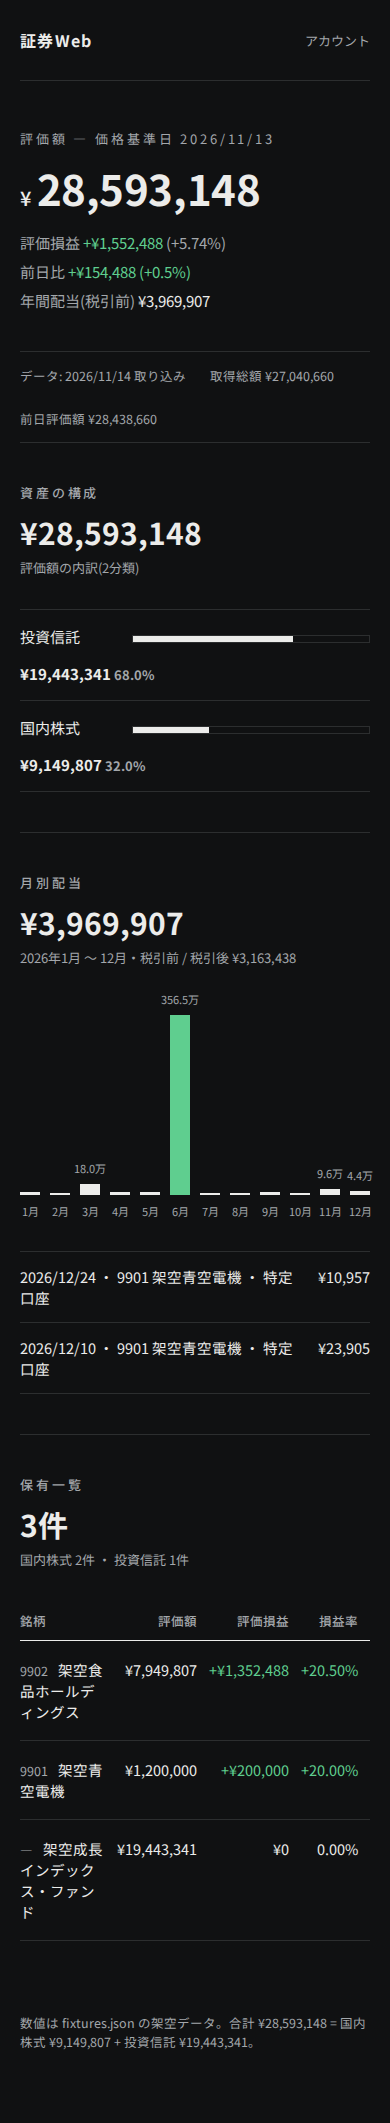
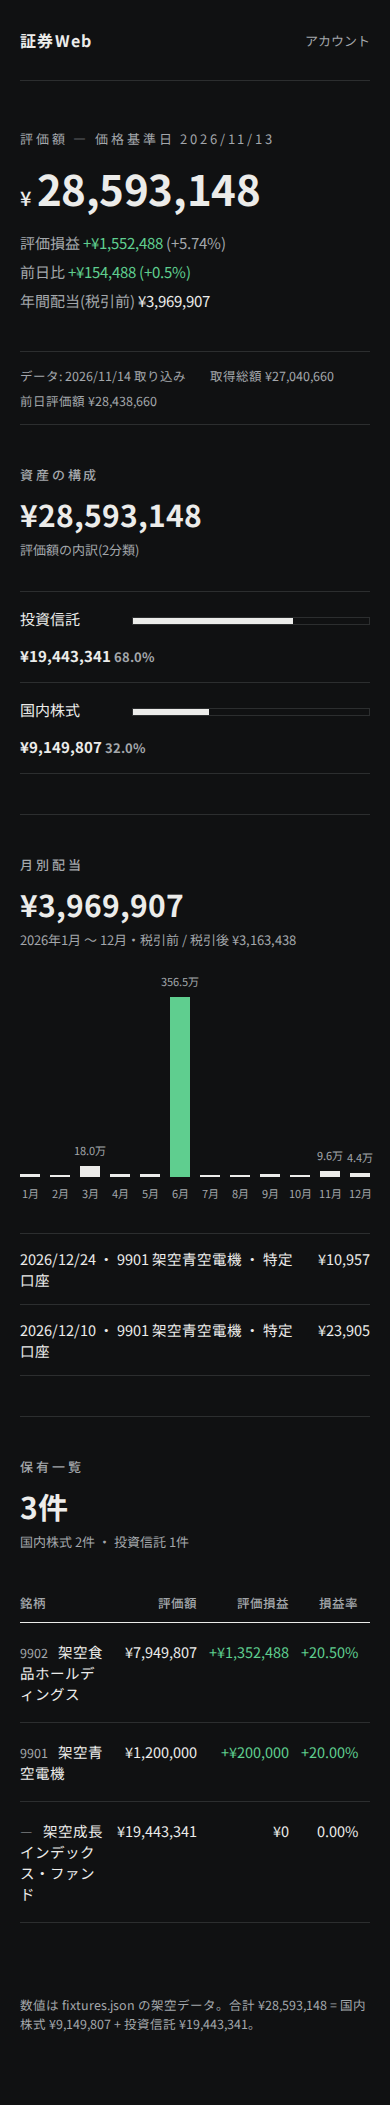
design: スマホ集計帯の改行崩れ修正と比較3点の追記
Refs #1890

diff --git a/docs/design/work/phase8-visual/idea2-finance.html b/docs/design/work/phase8-visual/idea2-finance.html
@@ -1,4 +1,8 @@
 <!doctype html>
+<!-- 現行ホーム(before/current-home-*.png)からの変更3点:
+  1. 紺の帯は残し、金額を右そろえの表にして内訳列で検算できる形にした
+  2. 配当は12か月バー+主要月だけの表に集約し、予想・達成率をなくした
+  3. 保有一覧に合計行を付け、口座別バーは削った -->
 <html lang="ja" data-theme="light">
 <head>
 <meta charset="utf-8">
@@ -53,6 +57,7 @@ th{font-size:12px; font-weight:500; color:var(--muted); text-align:left; padding
 td{padding:8px; border-bottom:1px solid var(--grid); vertical-align:top}
 tr:last-child td{border-bottom:none}
 .num{text-align:right; white-space:nowrap}
+.code{color:var(--muted); font-size:12px; margin-right:6px}
 td.num, td .n{font-weight:500}
 .sub{color:var(--muted); font-size:12px}
 .cols{display:grid; grid-template-columns:7fr 5fr; gap:20px}
@@ -75,6 +80,16 @@ td.num, td .n{font-weight:500}
   table{font-size:12.5px}
   th{white-space:nowrap}
   th, td{padding:7px 4px}
+  /* 保有一覧は縦積み(金額1行を保つ) */
+  table.holdings thead{display:none}
+  table.holdings, table.holdings tbody, table.holdings tr, table.holdings td{display:block}
+  table.holdings tr{border-bottom:1px solid var(--line); padding:8px 0}
+  table.holdings td{border:none; padding:3px 0; display:flex; justify-content:space-between; align-items:baseline; gap:12px}
+  table.holdings td::before{content:attr(data-th); color:var(--muted); font-size:12px; flex:none}
+  table.holdings td[data-th=""]::before{content:none}
+  table.holdings td:empty{display:none}
+  .band .v{white-space:nowrap; font-size:clamp(20px,5.6vw,22px)}
+  .band .v.small{font-size:clamp(16px,4.8vw,19px)}
   .wrap{padding:0 12px 48px}
   .band .inner{padding:0 12px}
   .band .cell{flex:1 1 45%; padding:8px 12px 8px 0; border-left:none; border-top:1px solid rgba(255,255,255,.18)}
@@ -161,13 +176,13 @@ td.num, td .n{font-weight:500}
   <!-- 4 保有一覧 -->
   <div class="panel">
     <h2>保有一覧 <span class="r">3件 ・ 国内株式 2件 / 投資信託 1件</span></h2>
-    <div class="body"><table>
-      <thead><tr><th>コード</th><th>銘柄</th><th class="num">数量</th><th class="num hide-m">単価</th><th class="num">評価額</th><th class="num">評価損益</th><th class="num">損益率</th></tr></thead>
+    <div class="body"><table class="holdings">
+      <thead><tr><th>銘柄</th><th class="num">数量</th><th class="num hide-m">単価</th><th class="num">評価額</th><th class="num">評価損益</th><th class="num">損益率</th></tr></thead>
       <tbody>
-        <tr><td>9902</td><td>架空食品ホールディングス</td><td class="num">100株</td><td class="num hide-m">¥79,498.07</td><td class="num">¥7,949,807</td><td class="num up">+¥1,352,488</td><td class="num up">+20.50%</td></tr>
-        <tr><td>9901</td><td>架空青空電機</td><td class="num">100株</td><td class="num hide-m">¥12,000</td><td class="num">¥1,200,000</td><td class="num up">+¥200,000</td><td class="num up">+20.00%</td></tr>
-        <tr><td>—</td><td>架空成長インデックス・ファンド</td><td class="num">10,000,000口</td><td class="num hide-m">¥19,443.341</td><td class="num">¥19,443,341</td><td class="num">¥0</td><td class="num">0.00%</td></tr>
-        <tr><td colspan="4" class="sub">合計</td><td class="num"><strong>¥28,593,148</strong></td><td class="num up">+¥1,552,488</td><td class="num">+5.74%</td></tr>
+        <tr><td data-th="銘柄"><span class="code">9902 </span>架空食品ホールディングス</td><td class="num" data-th="数量">100株</td><td class="num hide-m" data-th="単価">¥79,498.07</td><td class="num" data-th="評価額">¥7,949,807</td><td class="num up" data-th="評価損益">+¥1,352,488</td><td class="num up" data-th="損益率">+20.50%</td></tr>
+        <tr><td data-th="銘柄"><span class="code">9901 </span>架空青空電機</td><td class="num" data-th="数量">100株</td><td class="num hide-m" data-th="単価">¥12,000</td><td class="num" data-th="評価額">¥1,200,000</td><td class="num up" data-th="評価損益">+¥200,000</td><td class="num up" data-th="損益率">+20.00%</td></tr>
+        <tr><td data-th="銘柄"><span class="code">— </span>架空成長インデックス・ファンド</td><td class="num" data-th="数量">10,000,000口</td><td class="num hide-m" data-th="単価">¥19,443.341</td><td class="num" data-th="評価額">¥19,443,341</td><td class="num" data-th="評価損益">¥0</td><td class="num" data-th="損益率">0.00%</td></tr>
+        <tr class="total"><td data-th="">合計</td><td class="num" data-th=""></td><td class="num hide-m" data-th=""></td><td class="num" data-th="評価額">¥28,593,148</td><td class="num up" data-th="評価損益">+¥1,552,488</td><td class="num" data-th="損益率">+5.74%</td></tr>
       </tbody>
     </table>
     <div class="sub" style="padding:10px 8px 6px">最近の配当入金: 2026/12/24 9901 ¥10,957(税引後) ・ 2026/12/10 9901 ¥23,905(税引後)</div></div>

diff --git a/docs/design/work/phase8-visual/idea1-minimal.html b/docs/design/work/phase8-visual/idea1-minimal.html
@@ -1,4 +1,8 @@
 <!doctype html>
+<!-- 現行ホーム(before/current-home-*.png)からの変更3点:
+  1. 紺の3分割集計帯をやめ、白地に評価額1点だけを大きく置いた
+  2. 配当グラフを「予想vs実績・達成率」から「12か月の実績のみ」の細棒に変えた
+  3. 口座別バーと銘柄リストをなくし、構成→月別→保有を線区切りで一直線に並べた -->
 <html lang="ja" data-theme="light">
 <head>
 <meta charset="utf-8">
@@ -36,12 +40,14 @@ body{
 /* 集計帯: 大きな評価額が主役。区切りは線だけ */
 .hero{padding:72px 0 56px; border-bottom:1px solid var(--line)}
 .hero .kicker{font-size:13px; letter-spacing:.22em; color:var(--muted); margin-bottom:16px}
-.hero .total{font-size:64px; font-weight:700; letter-spacing:-.01em; line-height:1.15; margin:0}
+.hero .total{font-size:clamp(34px,11vw,64px); font-weight:700; letter-spacing:-.01em; line-height:1.15; margin:0; white-space:nowrap}
 .hero .total small{font-size:20px; font-weight:500; margin-right:6px}
 .hero .sub{display:flex; flex-wrap:wrap; gap:8px 40px; margin-top:20px; font-size:15px}
+.hero .sub span{white-space:nowrap}
 .hero .sub .m{color:var(--muted)}
 .up{color:var(--up)} .down{color:var(--down)}
-.meta{padding:14px 0; border-bottom:1px solid var(--line); color:var(--muted); font-size:12.5px; display:flex; gap:24px; flex-wrap:wrap}
+.meta{padding:14px 0; border-bottom:1px solid var(--line); color:var(--muted); font-size:12.5px; display:flex; gap:6px 24px; flex-wrap:wrap}
+.meta span{white-space:nowrap}
 section.block{padding:56px 0; border-bottom:1px solid var(--line)}
 section.block h2{font-size:13px; letter-spacing:.22em; color:var(--muted); font-weight:500; margin:0 0 8px}
 section.block .big{font-size:30px; font-weight:700; margin:0 0 4px}
@@ -49,7 +55,7 @@ section.block .note{color:var(--muted); font-size:13px; margin:0 0 32px}
 /* 構成: 線だけの横棒 */
 .bar-row{display:grid; grid-template-columns:110px 1fr 150px; gap:16px; align-items:baseline; padding:16px 0; border-top:1px solid var(--line); font-size:15px}
 .bar-row:last-child{border-bottom:1px solid var(--line)}
-.bar-row .n{text-align:right; font-weight:700}
+.bar-row .n{text-align:right; font-weight:700; white-space:nowrap}
 .bar-row .track{height:8px; background:transparent; border:1px solid var(--line); position:relative}
 .bar-row .fill{position:absolute; inset:0; background:var(--ink)}
 .bar-row .pct{color:var(--muted); font-size:13px}

diff --git a/docs/design/work/phase8-visual/idea3-cards.html b/docs/design/work/phase8-visual/idea3-cards.html
@@ -1,4 +1,8 @@
 <!doctype html>
+<!-- 現行ホーム(before/current-home-*.png)からの変更3点:
+  1. 紺の帯をやめ淡い緑地+白カードにし、評価額・損益・配当を分けて置いた
+  2. ドーナツと月別棒を大きくし、予想・達成率や口座別バーをなくした
+  3. 保有一覧を銘柄ごとの行にし、評価額を右に大きく出した -->
 <html lang="ja" data-theme="light">
 <head>
 <meta charset="utf-8">
@@ -38,7 +42,7 @@ html[data-theme="dark"] .top .tabs .here{color:#101511}
 /* 集計帯: 大きなカード */
 .hero{margin-top:8px; padding:36px 32px; display:grid; grid-template-columns:1.3fr 1fr 1fr; gap:24px; align-items:center}
 .hero .k{font-size:13px; color:var(--muted); margin-bottom:6px}
-.hero .total{font-size:52px; font-weight:700; line-height:1.15; margin:0; letter-spacing:-.01em}
+.hero .total{font-size:clamp(32px,10.5vw,52px); font-weight:700; line-height:1.15; margin:0; letter-spacing:-.01em; white-space:nowrap}
 .hero .cell .v{font-size:22px; font-weight:700}
 .hero .cell .s{font-size:12.5px; color:var(--muted); margin-top:4px}
 .up{color:var(--up)} .down{color:var(--down)}
@@ -70,7 +74,9 @@ h2.sec::before{content:""; width:10px; height:10px; border-radius:3px; backgroun
 .hold .row:first-child{border-top:none; padding-top:4px}
 .hold .name{font-weight:700; font-size:15px}
 .hold .code{font-size:12px; color:var(--muted); margin-right:8px}
-.hold .val{text-align:right; font-weight:700; font-size:17px}
+.hold .val{text-align:right; font-weight:700; font-size:17px; white-space:nowrap}
+.hold .detail{font-size:12.5px; color:var(--muted); grid-column:1/-1; display:flex; flex-wrap:wrap; gap:4px 18px}
+.hold .detail span{white-space:nowrap}
 .hold .detail{font-size:12.5px; color:var(--muted); grid-column:1/-1; display:flex; flex-wrap:wrap; gap:4px 18px}
 .foot{color:var(--muted); font-size:12px; margin-top:20px}
 </style>

diff --git a/docs/design/work/phase8-visual/README.md b/docs/design/work/phase8-visual/README.md
@@ -4,23 +4,33 @@ Phase 5 の見本に対し「全体の雰囲気・見た目が悪い」との判
 
 共通: Noto Sans JP(Google Fonts、落ちたらシステムフォント)、数字は tabular-nums。紫〜青グラデ・クリーム+セリフ・全面角丸+影・絵文字見出しは使わない。各 html は1ファイルで PC/スマホ両対応、`?theme=light|dark` と `prefers-color-scheme` でライト/ダーク切替。撮影は `tools/shoot.py`(Playwright、PC 1440px・スマホ 390px × ライト・ダークの full-page)。
 
+現行のホーム(`before/current-home-*.png` = phase1-opencode の現行アプリ撮影。紺の3分割集計帯、予想vs実績・達成率つき配当グラフ、口座別バー)との比べどころは各案の節と各 html 冒頭のコメントに3点ずつ書いた。
+
+## スマホ集計帯の改行対応
+
+390px で金額が見出し途中や金額途中で折れないよう、各案とも集計帯の金額は `white-space:nowrap` + 段階フォント(`clamp`)で1行に収めた。収まらない表(案2の保有一覧7列)はモバイルで縦積み(項目名: 値の行並び)に組み替えた。`shots/` のモバイル6枚で全金額の1行収まりを目視済み。
+
 ## 案1 ミニマル(`idea1-minimal.html`)
 
 白地に広い余白。64px の評価額だけを主役にし、区切りは 1px の線だけ(枠・影なし)。構成は線の横棒、月別は細い棒、保有一覧は罫線だけの表。読む順番が上から下に一直線。
+現行からの変更: (1)紺の3分割集計帯をやめ白地に評価額1点だけを大きく置いた (2)配当グラフを「予想vs実績・達成率」から「12か月の実績のみ」の細棒に変えた (3)口座別バーと銘柄リストをなくし一直線に並べた。
 色: 白 #FFFFFF / 文字 #1A1A1A / 補助 #6F7377 / 線 #E4E4E4、上昇だけ深緑 #0B6B3A(ダークでは #5FCE8F)。書体: Noto Sans JP 400/500/700。
 
 ## 案2 金融系(`idea2-finance.html`)
 
 深い紺の見出し帯に集計を集約し、以下は罫線の表で詰めた高密度レイアウト。金額はすべて右そろえ、内訳列で検算できる(取得総額の内訳、月別の税引後、国内株式の内訳 27.8%/4.2%など)。構成の横棒は紺と金で分類だけ色分け。
+現行からの変更: (1)紺の帯は残し金額を右そろえの表にして内訳列で検算できる形にした (2)配当は12か月バー+主要月だけの表に集約し予想・達成率をなくした (3)保有一覧に合計行を付け口座別バーは削った。
 色: 帯 #1C2F47 / 地 #F4F5F6 / 紙 #FFFFFF / 金 #8A6D2B、上昇 #0D6B38・下落 #B3261E。書体: Noto Sans JP 400/500/700。
 
 ## 案3 カード型(`idea3-cards.html`)
 
 淡い緑がかった地(#E9EFE9)の上に白カードを置き、ドーナツと月別棒を大きく見せる。見出しは小さな四角マーカー+文字だけ。数字はカード内で大きく、保有一覧は銘柄ごとに行を分けた読みやすい形。親しみは丸みと緑で出し、影はほぼ使わない(1px 罫+角丸14px)。
+現行からの変更: (1)紺の帯をやめ淡い緑地+白カードにし評価額・損益・配当を分けて置いた (2)ドーナツと月別棒を大きくし予想・達成率や口座別バーをなくした (3)保有一覧を銘柄ごとの行にし評価額を右に大きく出した。
 色: 地 #E9EFE9 / カード #FFFFFF / 文字 #22301F / 主緑 #1F6B44 / 淡緑 #E0ECDF、月別ピークのみ濃緑。書体: Noto Sans JP 400/500/700。
 
 ## ファイル
 
 - `idea1-minimal.html` / `idea2-finance.html` / `idea3-cards.html`
 - `shots/`: 各案4枚(PC/モバイル × ライト/ダーク)計12枚。全枚、文字の切れ・重なり・はみ出しなしを目視済み
+- `before/`: 現行ホームの撮影4枚(phase1-opencode の現行アプリ撮影を複写。比較用、編集なし)
 - `tools/shoot.py`: 撮影スクリプト
